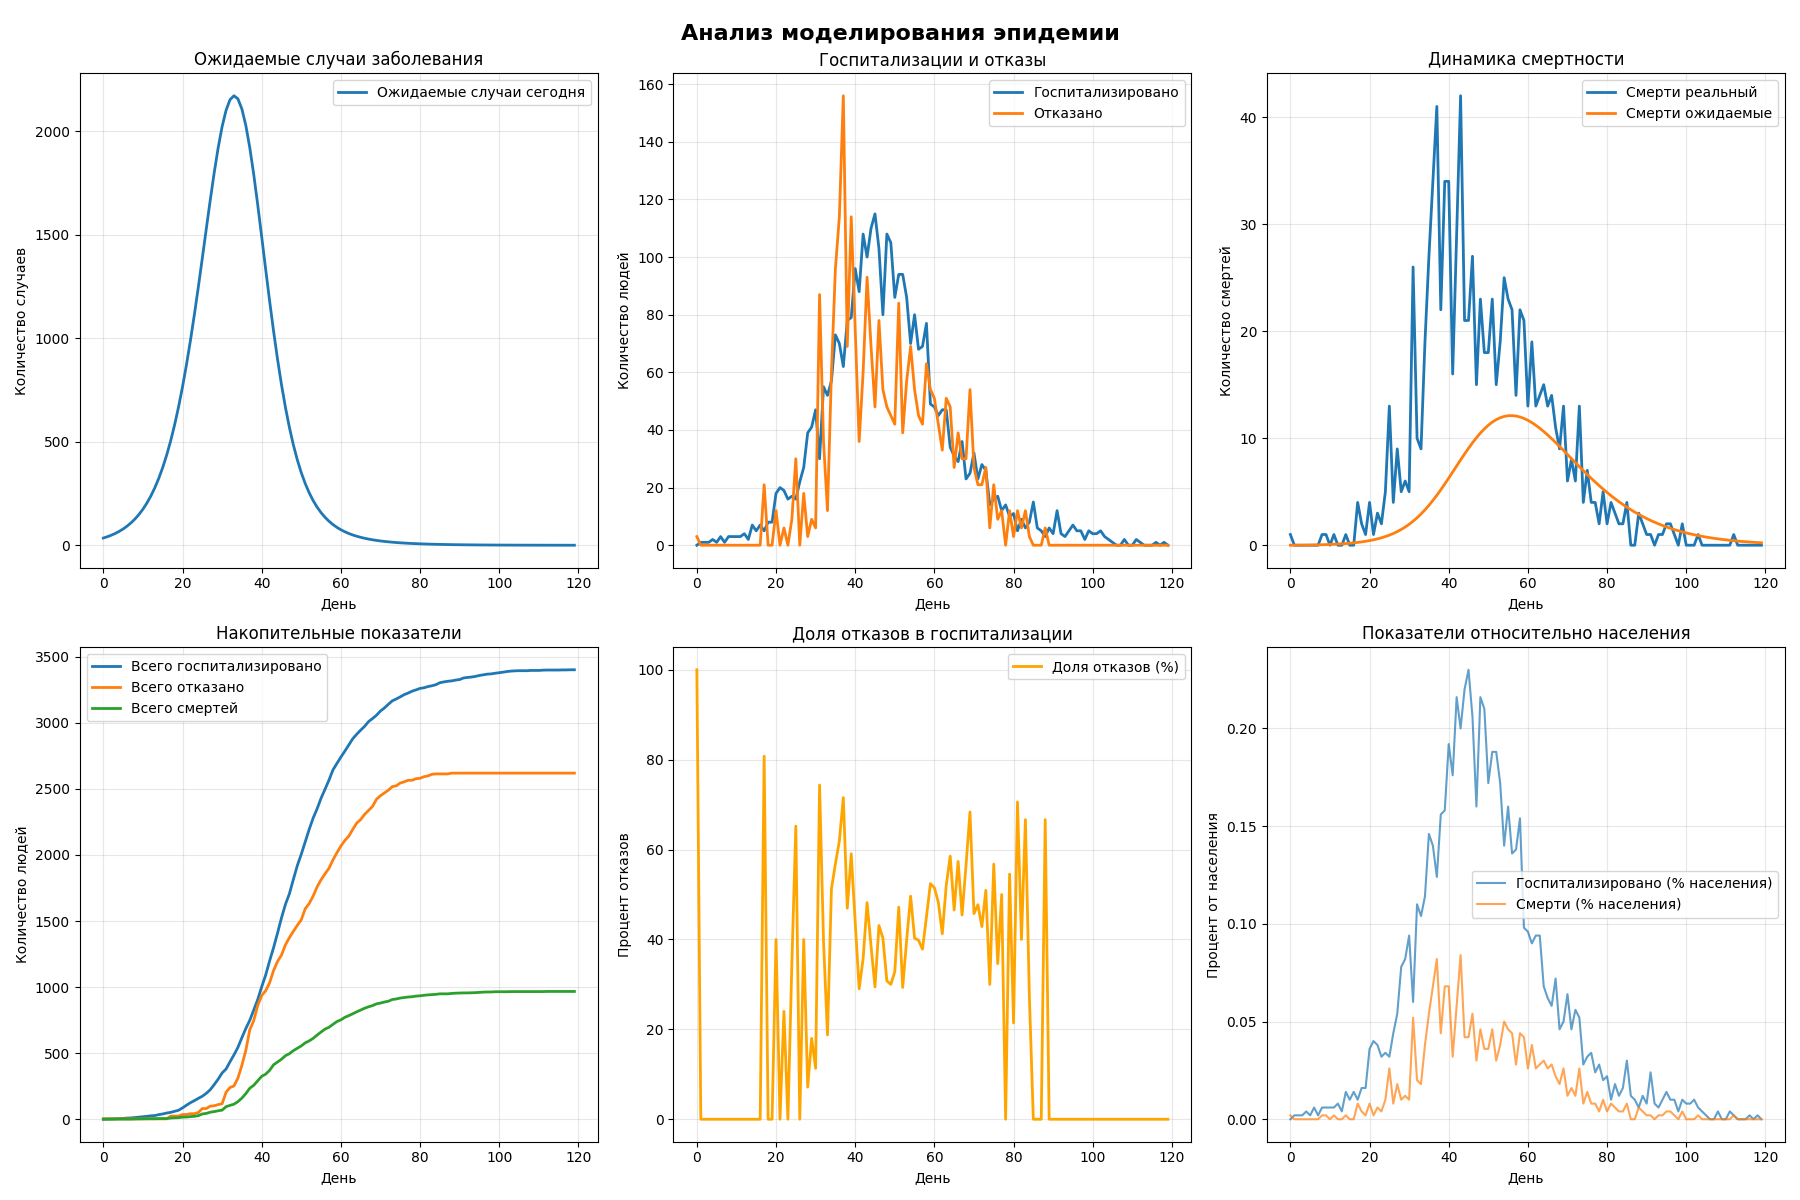
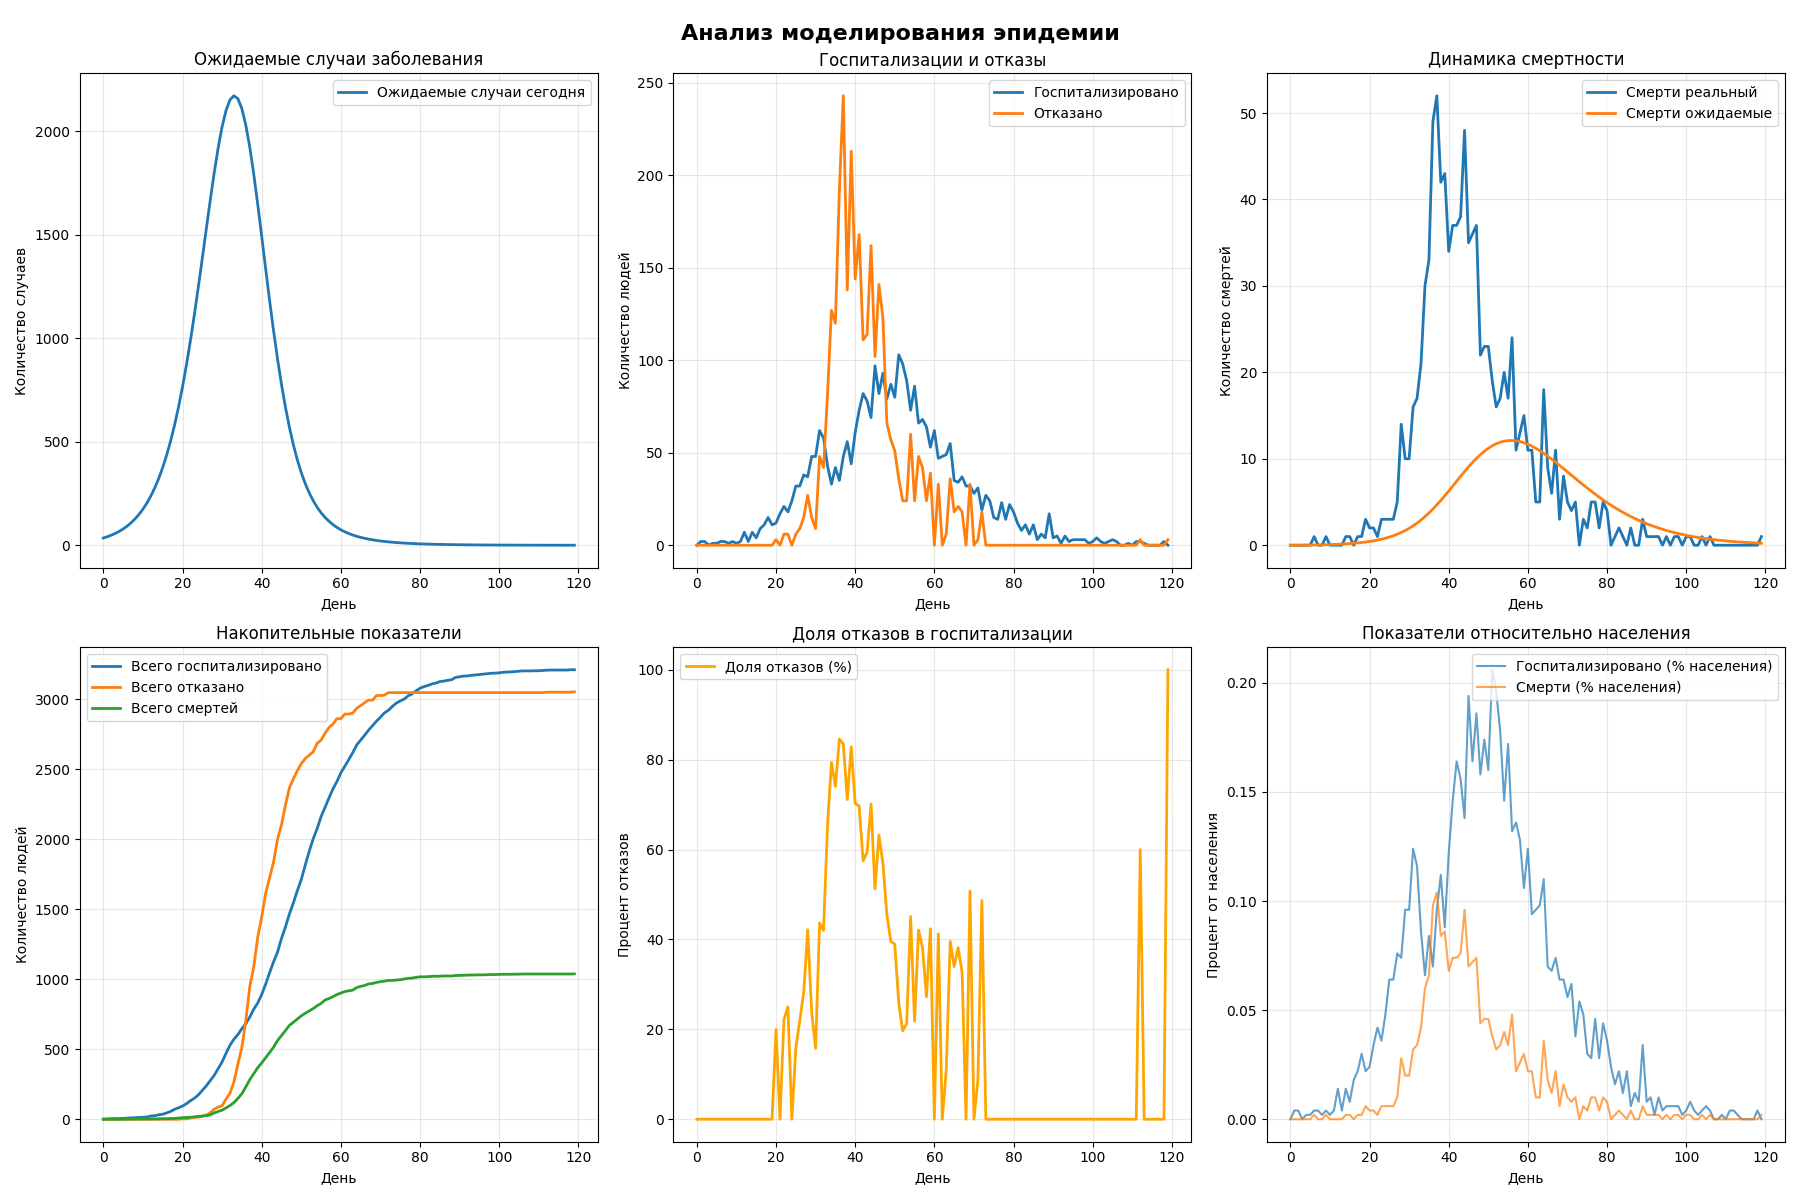
Настроил работу и коэффициенты TTM

diff --git a/src/run.py b/src/run.py
@@ -14,6 +14,7 @@ from src.core.config import settings
 from src.core.models import SEIRHCDParams, Hospital
 from src.utils import plots
 from src.des import run_des
+from src.TTM.run import run_ttm
 
 
 def run_two_way(
@@ -24,33 +25,42 @@ def run_two_way(
     """Запуск симуляции"""
     rng = np.random.RandomState(settings.RANDOM_SEED)
 
-    # Моделирование SD модели
-    init_params_sd = copy.deepcopy(init_params)
+    # # Моделирование SD модели
+    # init_params_sd = copy.deepcopy(init_params)
+    #
+    # sd_logs = simulate_seir_hcd(params=init_params_sd, days=settings.DAYS)
+    # plots.display_SD_results(sd_logs, init_params_sd)
+    # plots.plot_SD_results(sd_logs)
+    # plots.save_SD_results(sd_logs)
+    #
+    # # Моделирование SD <-> DES
+    # hospitals_cfg_des = [copy.deepcopy(h) for h in hospitals_cfg]
+    # init_params_des = replace(init_params)
+    #
+    # des_logs, des = run_des.run(hospitals_cfg_des, init_params_des, days, rng)
+    # plots.plot_SD_DES_results(des_logs)
+    # plots.save_SD_DES_results(des_logs, des)
 
-    sd_logs = simulate_seir_hcd(params=init_params_sd, days=settings.DAYS)
-    plots.display_SD_results(sd_logs, init_params_sd)
-    plots.plot_SD_results(sd_logs)
-    plots.save_SD_results(sd_logs)
+    # Моделирование с TTM управлением больниц
+    hospitals_cfg_ttm = [copy.deepcopy(h) for h in hospitals_cfg]
+    init_params_ttm = replace(init_params)
 
-    # Моделирование SD <-> DES
-    hospitals_cfg_des = [copy.deepcopy(h) for h in hospitals_cfg]
-    init_params_des = replace(init_params)
+    ttm_logs, des = run_ttm(hospitals_cfg_ttm, init_params_ttm, days, rng)
+    # plots.plot_SD_DES_results(ttm_logs)
+    plots.plot_RL_results(ttm_logs)
+    plots.plot_RL_actions(ttm_logs)
 
-    des_logs, des = run_des.run(hospitals_cfg_des, init_params_des, days, rng)
-    plots.plot_SD_DES_results(des_logs)
-    plots.save_SD_DES_results(des_logs, des)
-
-    # Использование RL агента
-    hospitals_cfg_rl = [copy.deepcopy(h) for h in hospitals_cfg]
-    init_params_rl = replace(init_params)
-    agents = [HospitalAgent() for _ in hospitals_cfg_rl]
-    envs = [HospitalEnv(i) for i in range(len(hospitals_cfg_rl))]
-    for i in range(len(agents)):
-        agents[i] = load_agent_checkpoint(agents[i], f"checkpoints/hospital_rl/agent_best.pt")
-
-    rl_logs, des, agents, _ = run_with_rl(hospitals_cfg_rl, init_params_rl, days, rng, agents, envs, False)
-    plots.plot_SD_DES_results(rl_logs)
-    plots.plot_RL_results(rl_logs)
-    plots.plot_DES_vs_RL(des_logs, rl_logs)
-    plots.plot_RL_actions(rl_logs)
+    # # Использование RL агента
+    # hospitals_cfg_rl = [copy.deepcopy(h) for h in hospitals_cfg]
+    # init_params_rl = replace(init_params)
+    # agents = [HospitalAgent() for _ in hospitals_cfg_rl]
+    # envs = [HospitalEnv(i) for i in range(len(hospitals_cfg_rl))]
+    # for i in range(len(agents)):
+    #     agents[i] = load_agent_checkpoint(agents[i], f"checkpoints/hospital_rl/agent_best.pt")
+    #
+    # rl_logs, des, agents, _ = run_with_rl(hospitals_cfg_rl, init_params_rl, days, rng, agents, envs, False)
+    # plots.plot_SD_DES_results(rl_logs)
+    # plots.plot_RL_results(rl_logs)
+    # plots.plot_DES_vs_RL(des_logs, rl_logs)
+    # plots.plot_RL_actions(rl_logs)
 

diff --git a/src/TTM/agent.py b/src/TTM/agent.py
@@ -1,5 +1,23 @@
 """Класс агента"""
 
+
+levels = {
+    "growth" :
+        {
+            "low_1_level": 0.3,
+            "low_2_level": 0.4,
+            "top_1_level": 0.9,
+            "top_2_level": 0.95
+        },
+    "fall" :
+        {
+            "low_1_level": 0.001,
+            "low_2_level": 0.01,
+            "top_1_level": 0.05,
+            "top_2_level": 0.1
+        }
+}
+
 class Agent:
     """"Агент для TTM системы управления больницей"""
     profile_type: int # Тип профиля
@@ -7,6 +25,51 @@ class Agent:
     def __init__(self, profile_type: int=0):
         self.profile_type = profile_type
 
-    def select_action(self, obs, mask) -> int:
+    @staticmethod
+    def select_action(obs:dict, mask) -> int:
         """Функция для выбора действия"""
+        expected_1_day = obs["expected_hosp_1_day"] + obs["expected_icu_1_day"]
+        expected_5_day = obs["expected_hosp_5_day"] + obs["expected_icu_5_day"]
+        expected_15_day = obs["expected_hosp_15_day"] + obs["expected_icu_15_day"]
+
+        if expected_1_day < expected_5_day < expected_15_day:
+           levels_ = levels["growth"]
+        elif expected_1_day > expected_5_day > expected_15_day:
+            levels_ = levels["fall"]
+        else:
+            return 0
+
+        free_beds = obs["beds"] - obs["occupied_beds"]
+        free_icu = obs["icu"] - obs["occupied_icu"]
+
+        beds_level = free_beds / obs["beds"] if obs["beds"] != 0 else 1
+        icu_level = free_icu / obs["icu"] if obs["icu"] != 0 else 1
+
+        print(beds_level, icu_level)
+
+        if beds_level <= levels_["low_1_level"]:
+            return Agent.try_buy_beds(action=2, mask=mask)
+        elif levels_["low_1_level"] < beds_level <= levels_["low_2_level"]:
+            return Agent.try_buy_beds(action=1, mask=mask)
+        elif levels_["top_1_level"] < beds_level <= levels_["top_2_level"]:
+            return 5
+        elif beds_level > levels_["top_2_level"]:
+            return 6
+
+        if icu_level <= levels_["low_1_level"]:
+            return Agent.try_buy_beds(action=4, mask=mask)
+        elif levels_["low_1_level"] < icu_level <= levels_["low_2_level"]:
+            return Agent.try_buy_beds(action=3, mask=mask)
+        elif levels_["top_1_level"] < icu_level <= levels_["top_2_level"]:
+            return 7
+        elif icu_level > levels_["top_2_level"]:
+            return 8
+
         return 0
+
+    @staticmethod
+    def try_buy_beds(action: int, mask: list[int]) -> int:
+        """Попытка купить койки или ИВЛ"""
+        if mask[action] == 0:
+            return 9
+        return action

diff --git a/src/core/models.py b/src/core/models.py
@@ -220,7 +220,7 @@ class Hospital:
         metric["beds"] = self.beds
         metric["icu"] = self.icu
 
-        return metric
+        return metric.copy()
 
     def save_daily_metrics(self, day: int = 0):
         """Сохранение дневной метрики"""
@@ -272,7 +272,7 @@ class Hospital:
         elif action == 8: # Законсервировать 10 аппаратов ИВЛ
             self._add_beds("icu", 10, is_reserved=True)
         elif action == 9: # Срочно выделить бюджет на закупку
-            self.budget += 6_000_000
+            self.budget += 30_000_000
             return
 
     def _add_beds(self, bed_type: str, n: int, is_reserved: bool=False):

diff --git a/src/des/des_model.py b/src/des/des_model.py
@@ -14,7 +14,7 @@ class DES:
         self.hospitals = hospitals
         self.rng = np.random.RandomState(rng_seed)
 
-    def assign_preferential(self, now, severity, use_random=False):
+    def assign_preferential(self, now, severity, use_random=True):
         """Оценивает больницы и возвращает список лучших"""
         if use_random:
             # Возвращаем случайный порядок больниц
